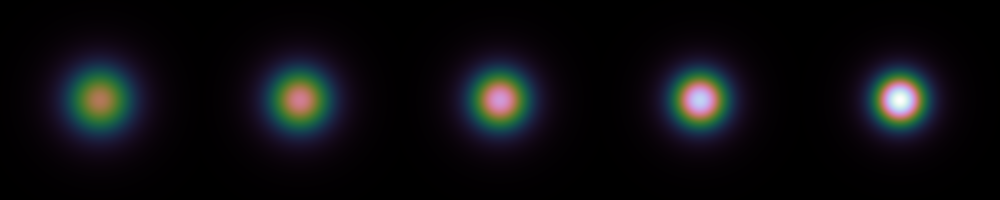
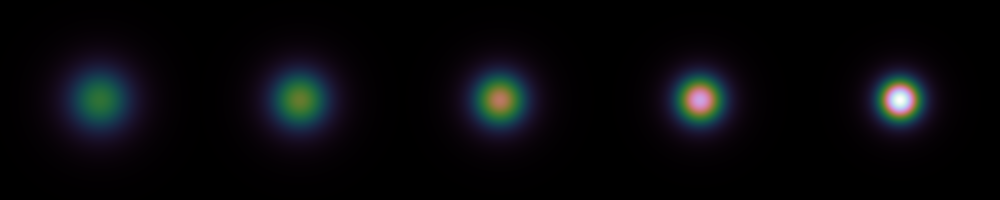
GLAO CORRECTION DRIVEN BY SEEING FWHM

diff --git a/src/seeing.rs b/src/seeing.rs
@@ -49,7 +49,7 @@ impl SeeingBuilder {
             "GLAO fraction of correction should be less that 1"
         );
         Self {
-            fried_parameter: self.fried_parameter * (1. - corrected_fraction).powf(-3_f64 / 5_f64),
+            fried_parameter: self.fried_parameter / (1. - corrected_fraction),
             ..self
         }
     }
